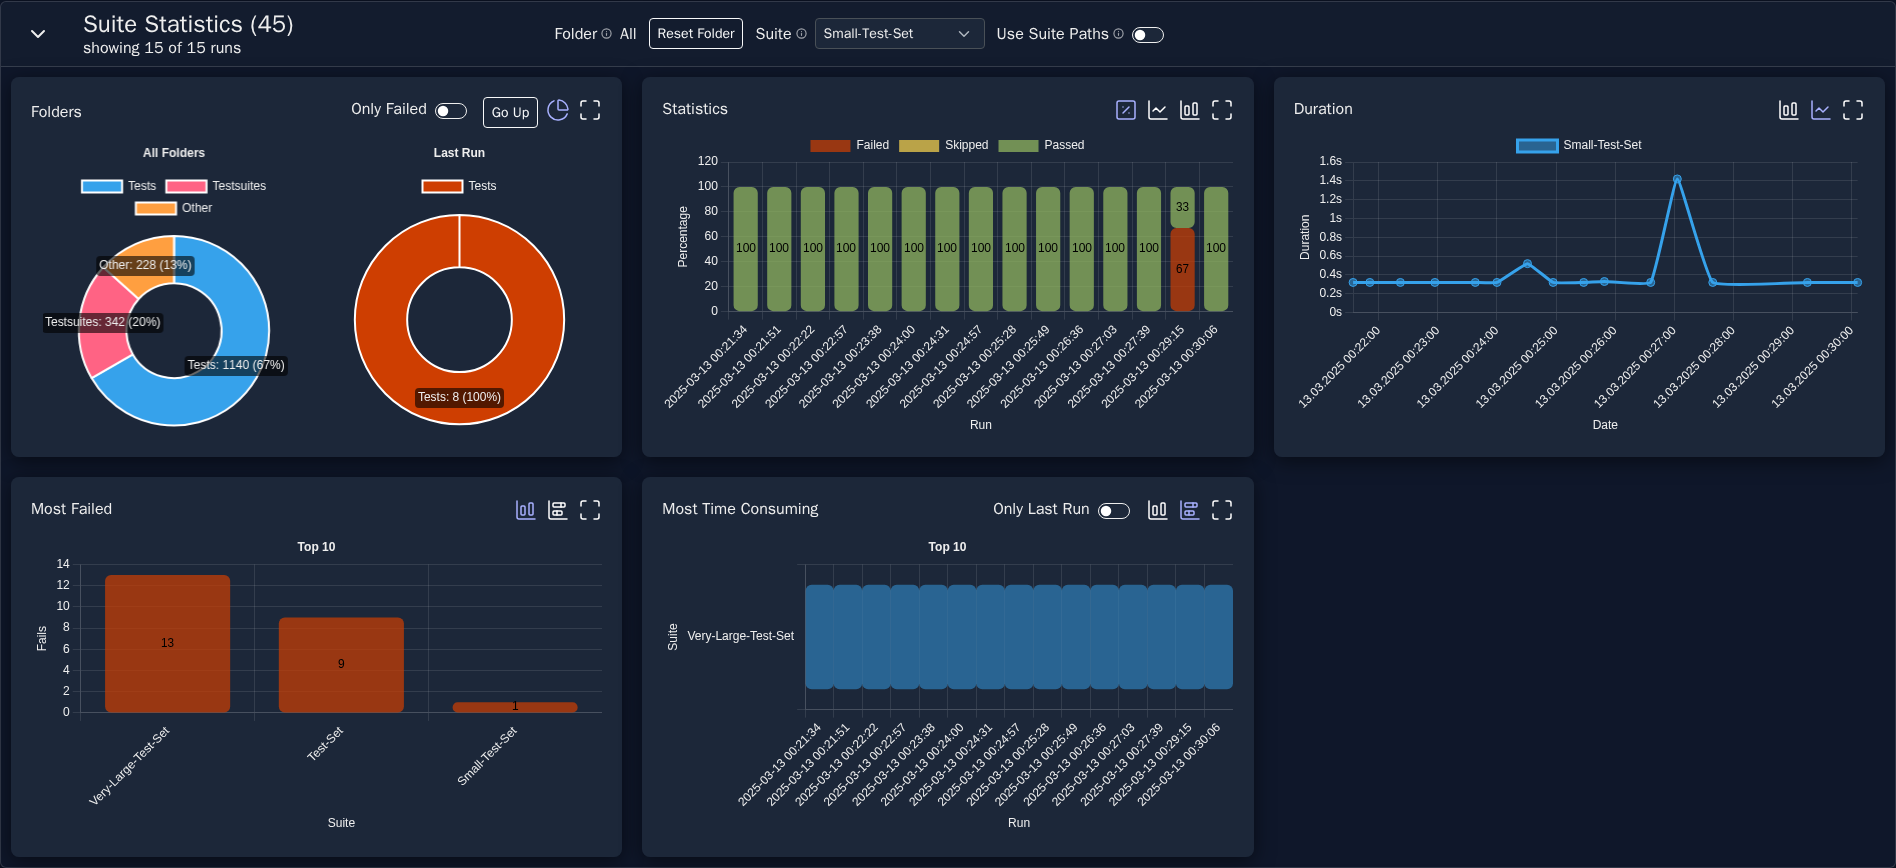
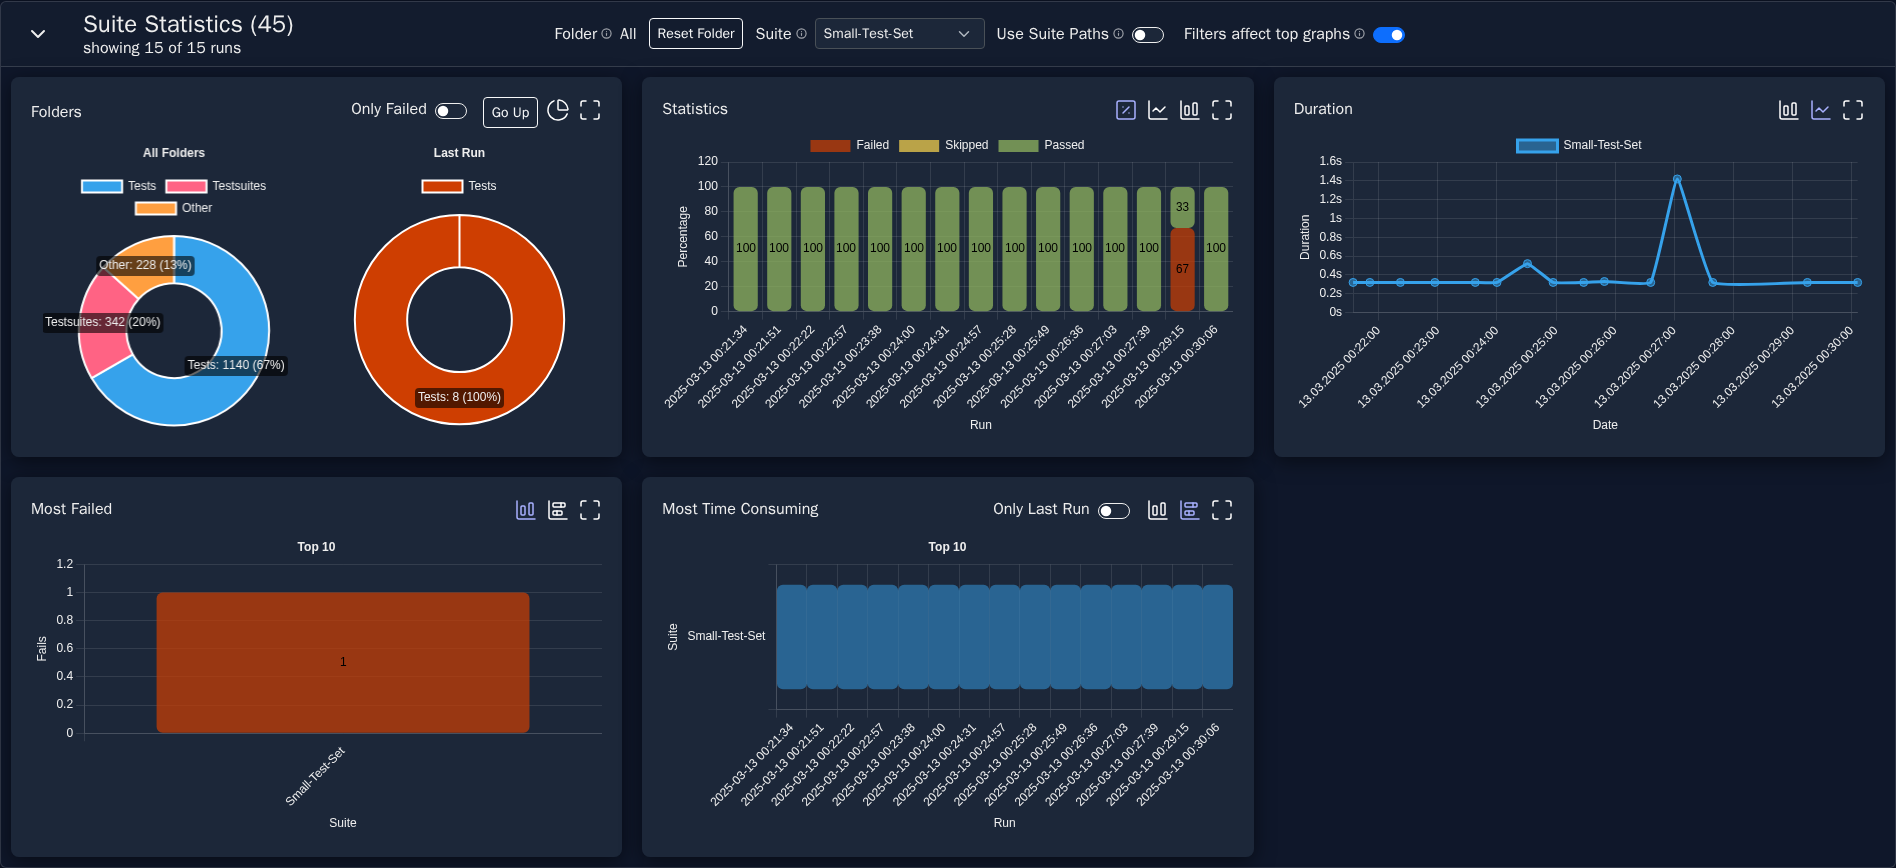
feat: update reference screenshots for keyword, suite, and test sections

diff --git a/.github/skills/fix-robot-tests.md b/.github/skills/fix-robot-tests.md
@@ -8,19 +8,50 @@ argument-hint: 'Optional: path to the output.xml or results folder containing th
 
 ## Step 1 — Parse failures from output.xml
 
-Identify the failure types by parsing the output.xml (usually in `results/` or `robot-results*/`):
+Locate the `output.xml` — it is usually in `results/` or in an alternate folder such as `robot-results (4)/` when the run came from a downloaded CI artifact.
 
-```python
-import xml.etree.ElementTree as ET
-tree = ET.parse('results/output.xml')
+To diagnose failures, write the script below to a temp file and run it (writing to a file avoids PowerShell quote-escaping issues with inline `python -c`):
+
+```powershell
+@'
+import glob, os, xml.etree.ElementTree as ET
+
+candidates = glob.glob("results/output.xml") + glob.glob("robot-results*/output.xml")
+if not candidates:
+    raise FileNotFoundError("No output.xml found")
+xml_path = max(candidates, key=os.path.getmtime)   # most recently modified
+print("Parsing: " + xml_path + "\n")
+
+tree = ET.parse(xml_path)
 root = tree.getroot()
-for test in root.iter('test'):
-    status = test.find('status')
-    if status is not None and status.get('status') == 'FAIL':
-        name = test.get('name')
-        for msg in test.iter('msg'):
-            if msg.get('level') in ('FAIL', 'ERROR'):
-                print(f'FAIL [{name}]: {(msg.text or "")[:400]}')
+for test in root.iter("test"):
+    status = test.find("status")
+    if status is None or status.get("status") != "FAIL":
+        continue
+    name = test.get("name")
+    all_msgs  = [msg.text or "" for msg in test.iter("msg")]
+    fail_msgs = [msg.text or "" for msg in test.iter("msg") if msg.get("level") in ("FAIL", "ERROR")]
+    fail_text    = next((m for m in all_msgs if "compared images are different" in m.lower()), None)
+    timeout_text = next((m for m in all_msgs if "timeouterror" in m.lower() or "element is not visible" in m.lower()), None)
+    if fail_text:
+        screenshot_msg = next((m for m in all_msgs if "browser/screenshot/" in m), "")
+        reference_msg  = next((m for m in all_msgs if "dashboard_output" in m), "")
+        screenshot_file = screenshot_msg.split("browser/screenshot/")[-1].split('"')[0].split("'")[0].strip() if screenshot_msg else "?"
+        ref_path   = reference_msg.split("dashboard_output/")[-1].strip() if reference_msg else "?"
+        ref_folder = ref_path.split("/")[0] if "/" in ref_path else "?"
+        print("STALE SCREENSHOT [" + name + "]")
+        print("  screenshot : " + screenshot_file)
+        print("  ref folder : tests/robot/resources/dashboard_output/" + ref_folder + "/")
+    elif timeout_text:
+        element_msg = next((m for m in all_msgs if "locator" in m.lower() or "click" in m.lower()), timeout_text)
+        print("TIMEOUT / NOT VISIBLE [" + name + "]")
+        print("  " + element_msg[:300])
+    else:
+        other = next((m for m in fail_msgs if m.strip()), "")
+        print("OTHER FAILURE [" + name + "]: " + other[:300])
+    print()
+'@ | Out-File -Encoding utf8 "$env:TEMP\rf_diag.py"
+python "$env:TEMP\rf_diag.py"
 ```
 
 Two root causes appear in this project:
@@ -45,15 +76,20 @@ The `Generate Dashboard` keyword (in `general-keywords.resource`) calls `robotda
 
 ## Step 3 — Update stale reference screenshots
 
-### Option A — Copy from a previous Docker run
-If `results/browser/screenshot/<name>.png` was captured inside Docker (e.g. from a previous `docker run` test run) and the new UI is correct, copy it straight to the reference folder:
+### Option A — Copy from a Docker run (local or CI artifact)
+If the screenshots came from a Docker run — either a local `docker run` or a downloaded CI artifact folder such as `robot-results (4)/` — and the new UI is correct, copy them straight to the reference folder using the `Copy-Item` commands printed by the Step 1 script, or manually:
 
 ```powershell
+# screenshots from a local Docker run land in results\browser\screenshot\
 Copy-Item "results\browser\screenshot\<name>.png" `
+          "tests\robot\resources\dashboard_output\<folder>\<name>.png" -Force
+
+# screenshots from a CI artifact folder (e.g. robot-results (4)\) follow the same layout
+Copy-Item "robot-results (4)\browser\screenshot\<name>.png" `
           "tests\robot\resources\dashboard_output\<folder>\<name>.png" -Force
 ```
 
-> **Important**: screenshots taken on a Windows host will not match Docker references due to font rendering differences. Only use Option A if the screenshot came from a Docker run.
+> **Important**: screenshots taken on a Windows host will not match Docker references due to font rendering differences. Only use Option A if the screenshots came from a Docker or Linux CI run. Check the `${reference}` log message — a path starting with `/__w/` confirms it ran on Linux.
 
 ### Option B — Regenerate via Docker (required when no Docker screenshots exist)
 